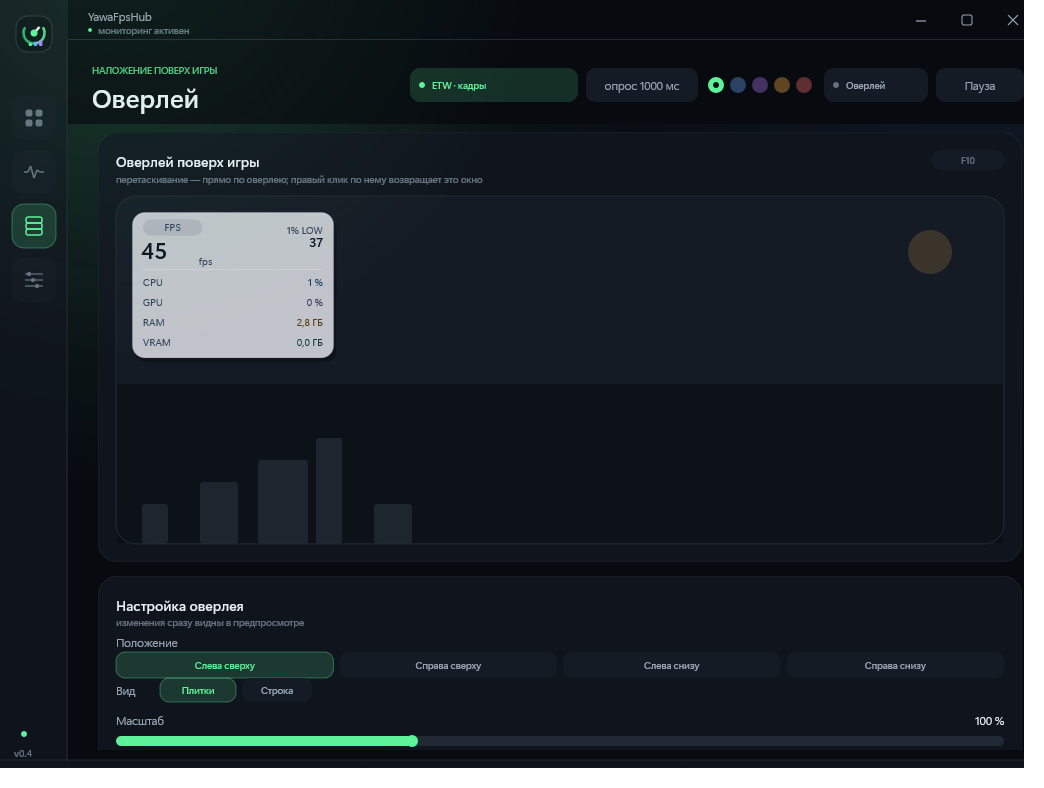
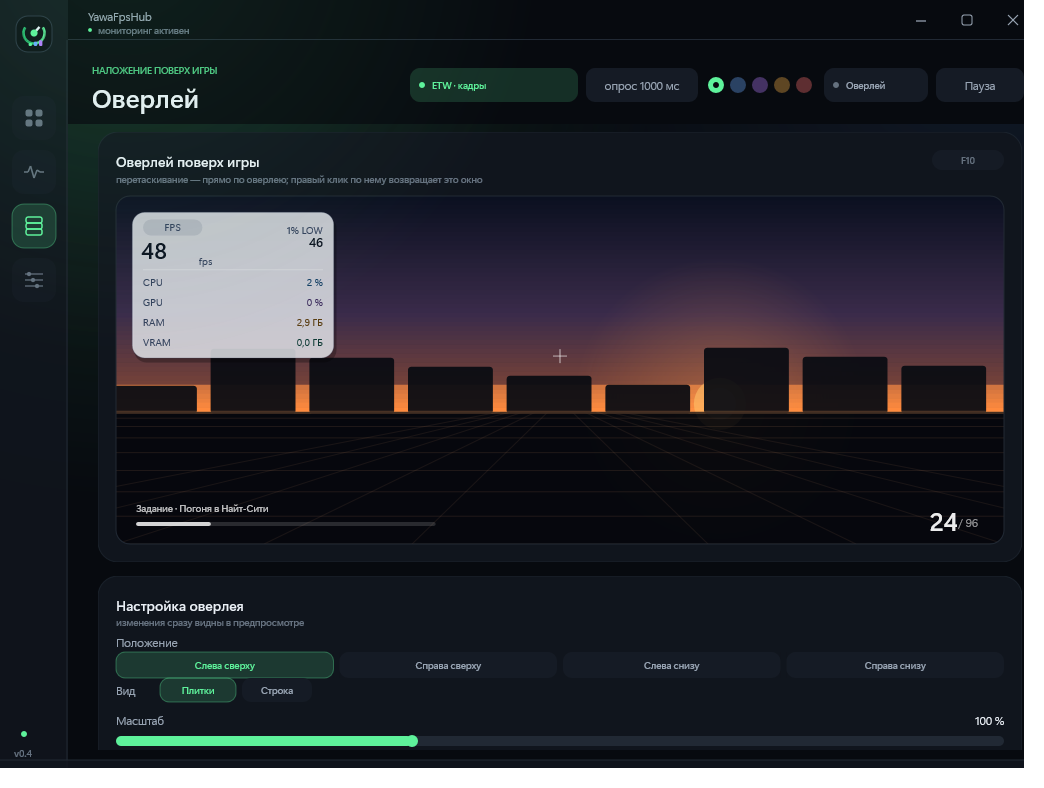
Сцена предпросмотра: узкие скалы со скосами, солнце над хребтом

Changed region(s): [[0.092, 0.2741, 0.9808, 0.7005], [0.8889, 0.6396, 0.9195, 0.6701]]

diff --git a/app/ui/overlay_view.cpp b/app/ui/overlay_view.cpp
@@ -125,11 +125,11 @@ void drawSceneBackdrop(Renderer& renderer, const Rect& scene, const Theme& theme
     }
 
     // Солнце: мягкое свечение и сам диск у линии хребта.
-    const float sunX = scene.left + scene.width() * 0.68f;
-    const float sunY = skyBottom - 8.0f;
-    renderer.fillRadialGlow(sunX, sunY, scene.height() * 0.42f, fromRgba(0xFFFF9A4D).withAlpha(0.30f));
-    renderer.fillCircle(sunX, sunY, 26.0f, fromRgba(0xFFFFC46B).withAlpha(0.55f));
-    renderer.fillCircle(sunX, sunY, 16.0f, fromRgba(0xFFFFE0A8).withAlpha(0.35f));
+    const float sunX = scene.left + scene.width() * 0.66f;
+    const float sunY = skyBottom - 22.0f;
+    renderer.fillRadialGlow(sunX, sunY, scene.height() * 0.36f, fromRgba(0xFFFF9A4D).withAlpha(0.26f));
+    renderer.fillCircle(sunX, sunY, 21.0f, fromRgba(0xFFFFC46B).withAlpha(0.62f));
+    renderer.fillCircle(sunX, sunY, 13.0f, fromRgba(0xFFFFE7BC).withAlpha(0.45f));
 
     // Земля и перспективная сетка: горизонтали сгущаются к горизонту.
     renderer.fillRect(Rect{ scene.left, skyBottom, scene.right, scene.bottom }, ground.withAlpha(0.92f));
@@ -149,17 +149,27 @@ void drawSceneBackdrop(Renderer& renderer, const Rect& scene, const Theme& theme
             fromRgba(0xFFFFB27A).withAlpha(0.08f), 1.0f);
     }
 
-    // Хребет: плосковерхие скалы, как в сцене прототипа.
-    constexpr int kPeaks = 9;
+    // Хребет: плосковерхие скалы со скосами, как в сцене прототипа. Скосы — два
+    // более низких столбца по краям: силуэт получается ступенчатым, а не «кирпичным».
+    constexpr int kPeaks = 13;
+    const Color rock = fromRgba(0xFF0A0C12).withAlpha(0.95f);
     for (int peak = 0; peak < kPeaks; ++peak) {
-        const float width = scene.width() / static_cast<float>(kPeaks);
-        const float left = scene.left + width * static_cast<float>(peak) - 4.0f;
-        const float height = 26.0f + static_cast<float>((peak * 37) % 46);
-        renderer.fillRoundRect(Rect{ left, skyBottom - height, left + width * 0.86f, skyBottom + 2.0f }, 3.0f,
-            fromRgba(0xFF0A0C12).withAlpha(0.94f));
+        const float step = scene.width() / static_cast<float>(kPeaks);
+        const float left = scene.left + step * static_cast<float>(peak);
+        const float slim = step * 0.52f;
+        const float height = 14.0f + static_cast<float>((peak * 53) % 34);
+        const float center = left + step * 0.44f;
+        renderer.fillRoundRect(Rect{ center, skyBottom - height - 4.0f, center + slim, skyBottom + 2.0f }, 2.0f,
+            rock);
+        renderer.fillRoundRect(Rect{ center - step * 0.10f, skyBottom - height * 0.62f,
+                                   center + step * 0.05f, skyBottom + 2.0f },
+            2.0f, rock);
+        renderer.fillRoundRect(Rect{ center + slim - step * 0.05f, skyBottom - height * 0.66f,
+                                   center + slim + step * 0.10f, skyBottom + 2.0f },
+            2.0f, rock);
     }
     renderer.fillRect(Rect{ scene.left, skyBottom - 1.0f, scene.right, skyBottom + 2.0f },
-        fromRgba(0xFFFFA45C).withAlpha(0.22f));
+        fromRgba(0xFFFFA45C).withAlpha(0.16f));
 
     // Прицел в центре и карточка задания снизу.
     const float crossY = scene.top + scene.height() * 0.46f;
